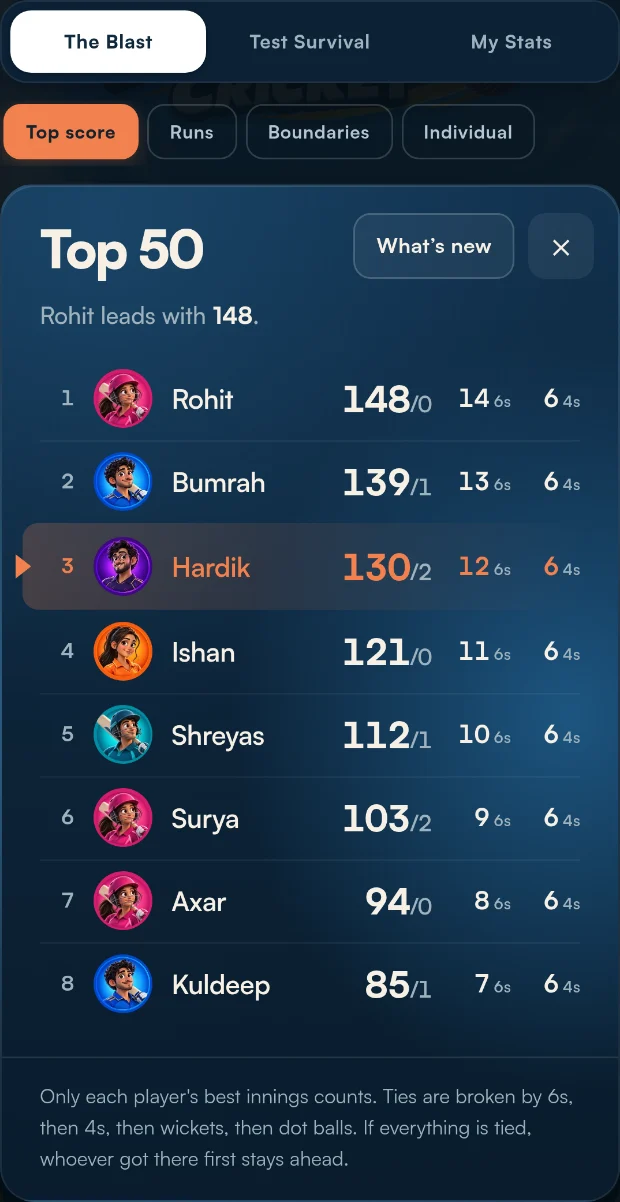
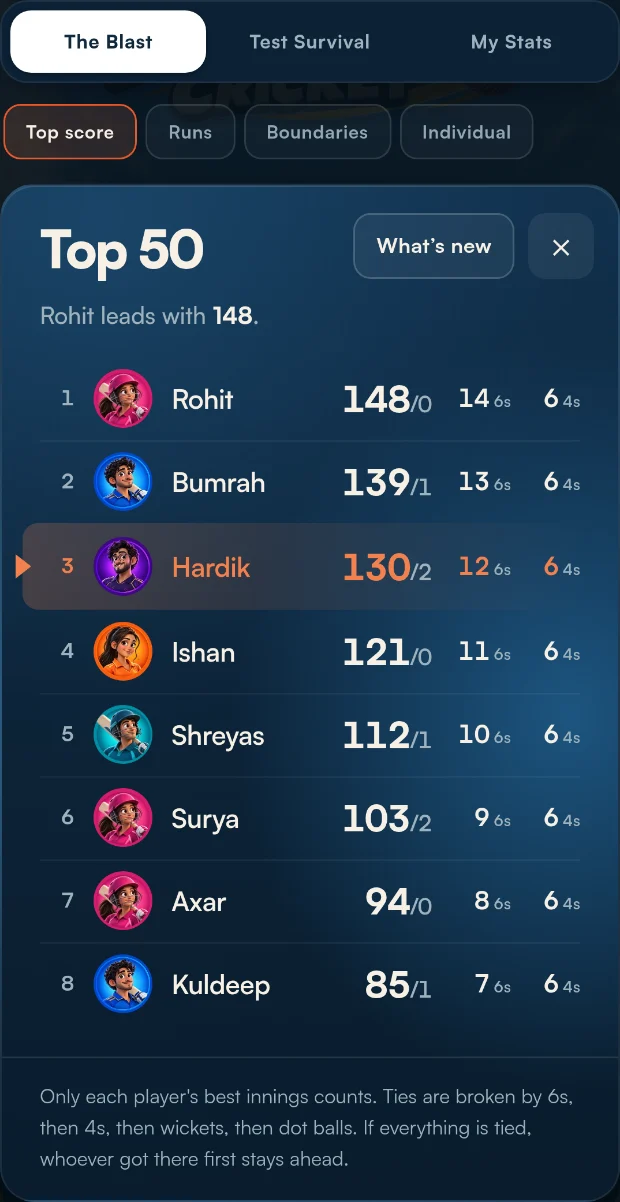
Stand the keys under the board, and quiet the ladder row
PLAY AGAIN and SHARE were sealed into the foot of the leaderboard card,
on a bar of their own with the fifty rows fading under them. That made a
way to play again look like part of the leaderboard, and left nobody
able to say where the board actually ended. They stand on the ground
beneath it now, the way the card's own keys stand under the card: the
board is a board, and these are what happens after it.

The markup follows the move. None of the three sheets renders them any
more — the screen puts them in the stack the sheet is standing in, which
is also why they only ever appeared on one of the three in the first
place.

And the ladder row wears what the card rail's pills wear. A solid orange
fill was the loudest thing on a screen whose job is fifty rows of other
people's scores; the row of ladders was shouting over the board it was
sorting. Lit is enough — the live one keeps the accent on its edge and a
wash of it behind the word, the rest are the same shape with the colour
taken out, and nothing changes size or weight between the two. The rail's
own pills come back the other way to meet them, squared to the same
corner as everything else on the screen rather than staying true pills.

Claude-Session: https://claude.ai/code/session_011FyhtfN3kyDt4tnJAqFJ8A

diff --git a/src/styles.css b/src/styles.css
@@ -1902,27 +1902,19 @@ body.start-screen .hud-top{display:none}
 .pause-card .story-key{margin-top:11px}
 .pause-card .start-hint{margin-top:10px;color:var(--quiet)}
 
-/* ── The board's own keys ──────────────────────────────────────────────── */
-/* Pinned to the foot of the sheet, with the fifty rows running under them.
-   Fifty rows is a long scroll, and a player who has just been put on the board
-   should not have to reach the bottom of it to leave. */
+/* ── What to do next ───────────────────────────────────────────────────── */
+/* Under the sheet, not inside it.
+   They used to be a bar sealed into the foot of the card, with the fifty rows
+   fading under them — which made a way to play again look like part of the
+   leaderboard, and left nobody able to say where the board actually ended. A
+   board is a board and these are what happens after it, so they stand on the
+   ground beneath it the way the card's keys stand under the card. */
 .board-actions{
   flex:none;
-  position:relative;
-  padding:12px 22px calc(14px + var(--pad-bottom) - 14px);
-  background:#0f2738;
-  border-top:1px solid var(--rule)
-}
-/* The rows do not end at the bar, they fade into it. */
-.board-actions::before{
-  content:'';
-  position:absolute;
-  left:0;
-  right:0;
-  bottom:100%;
-  height:22px;
-  background:linear-gradient(transparent,#0f2738);
-  pointer-events:none
+  width:100%;
+  /* Only whatever the home bar needs beyond the fourteen pixels the overlay
+     already puts under everything. On a phone without one this is nought. */
+  padding:0 0 calc(var(--pad-bottom) - 14px)
 }
 .board-actions .key-button{min-height:48px;font-size:16px}
 /* The pair sits side by side here exactly as it does on the innings card. It
@@ -1934,7 +1926,10 @@ body.start-screen .hud-top{display:none}
 /* The Test sheet's second key is the picker rather than the share pair, so it
    is the quiet twin of the one above it and wants the same full width. */
 .board-actions .ghost-link{display:block;width:100%;text-align:center}
-.board-sheet:has(.board-actions) .board-foot{display:none}
+/* With the keys under it the sheet does not also need its footnote: the two
+   together push the rows off a short screen, and the keys are what the player
+   is there for at that moment. */
+.board-stack:has(.board-actions) .board-foot{display:none}
 /* The board being down is a sentence, not an empty table. It reads on the sheet
    the rows would have filled, so the screen still has a shape. */
 .board-offline{
@@ -2133,7 +2128,7 @@ dialog .primary-button{margin-top:18px}
      card scrolls, the way out of the form does not move. */
   .card-claim .claim-key{position:sticky;bottom:0;z-index:1}
   .card-board .claim-key{margin:8px 13px 12px}
-  .board-actions{padding:9px 22px 11px}
+  .board-actions{padding:0 0 calc(var(--pad-bottom) - 14px)}
   .board-actions .key-button{min-height:42px;font-size:15px}
   /* Side by side once the card has to clear a landscape phone. The labels lose
      their tail rather than the buttons losing their tap target. */
@@ -3153,38 +3148,35 @@ body.private-window{overflow:hidden}
   scrollbar-width:none
 }
 .ladder-tabs::-webkit-scrollbar{display:none}
-/* Ghosts, until one is chosen.
-   They used to be filled panels with a border, which put five solid shapes in
-   a row and made the live one — also a solid shape — argue with the other
-   four for the same job. A stroke and a word carries the same tap target and
-   nothing else, so the one that is filled is unmistakably the one that is on.
-   The track behind them is the sheet, so there is nothing to fill against. */
+/* The same key, in two states, which is what the card rail's own pills settled
+   on and what this row now wears.
+   A solid orange fill was the loudest thing on a screen whose job is fifty
+   rows of other people's scores, and it made the row of ladders shout over the
+   board it was sorting. Lit is enough: the live one keeps the accent on its
+   edge and a wash of it behind the word, the rest are the same shape with the
+   colour taken out. Nothing in the row changes size or weight between the two,
+   so the eye reads one control rather than a chosen thing and four leftovers. */
 .ladder-tab{
   flex:0 0 auto;
   min-height:32px;
   padding:0 12px;
-  border:1px solid #ffffff2b;
-  /* The same family as the tabs above: a rounded rectangle, one step softer
-     again so the two rows read as one stack rather than two controls. */
+  border:1px solid #ffffff1f;
+  /* A rounded rectangle, not a pill: the same family as the tabs above it and
+     as the rail's own keys, one step softer again so the rows read as a stack. */
   border-radius:10px;
-  background:transparent;
+  background:#ffffff0a;
   font-family:var(--card);
   font-size:10.5px;
   font-weight:700;
   letter-spacing:.4px;
-  color:#b6c6d2;
+  color:#93a8b4;
   white-space:nowrap
 }
-.ladder-tab:hover:not(.is-on){color:#f4f8fa;border-color:#ffffff4d;background:#ffffff0a}
-/* The live one carries the sheet's accent rather than the white the row above
-   uses, so the two rows never read as two halves of one control. It is the
-   only filled shape in the row, which is the whole of how it is read. */
+.ladder-tab:hover:not(.is-on){color:#dae5ec;border-color:#ffffff3d;background:#ffffff14}
 .ladder-tab.is-on{
-  background:#f2814f;
-  border-color:#f2814f;
-  color:#17222b;
-  font-weight:800;
-  box-shadow:0 2px 10px #f2814f3d
+  border-color:var(--cta-orange);
+  background:#f2814f24;
+  color:#f7f0e5
 }
 
 
@@ -3339,7 +3331,9 @@ body.private-window{overflow:hidden}
   min-height:28px;
   padding:0 11px;
   border:1px solid #ffffff1f;
-  border-radius:999px;
+  /* Square-cornered to the same degree as every other key on this screen. It
+     was a true pill, which was the one shape the board had decided against. */
+  border-radius:10px;
   background:#ffffff0a;
   font-family:var(--card);
   font-size:11px;

diff --git a/src/ui/HUD.ts b/src/ui/HUD.ts
@@ -405,13 +405,17 @@ ${touch ? coverIntro(best, top) : panelIntro(best, top)}
    * there is nothing to be gained by keeping them around and patching them:
    * a fresh sheet is always the rows it was handed.
    */
-  board(view: BoardView) { this.sheet(boardMarkup(view), 'classic', 'best'); }
+  board(view: BoardView) {
+    this.sheet(boardMarkup(view), 'classic', 'best', view.actions ? this.actions('classic') : '');
+  }
 
   /**
    * The Test board. The same overlay and the same keys — only the rows and the
    * ladder they are ordered by differ, and those are the markup's business.
    */
-  surviveBoard(view: SurviveBoardView) { this.sheet(surviveBoardMarkup(view), 'survive', 'best'); }
+  surviveBoard(view: SurviveBoardView) {
+    this.sheet(surviveBoardMarkup(view), 'survive', 'best', view.actions ? this.actions('survive') : '');
+  }
 
   /**
    * A career board. The same overlay, the same keys and the same rows — what
@@ -419,18 +423,17 @@ ${touch ? coverIntro(best, top) : panelIntro(best, top)}
    * total is the board's own business rather than this method's.
    */
   careerBoard(view: CareerBoardView & { actions?: boolean }) {
-    const markup = careerBoardMarkup({
-      ...view,
-      actionsMarkup: view.actions ? this.actions(view.mode) : '',
-    });
-    this.sheet(markup, view.mode, view.board.key);
+    this.sheet(
+      careerBoardMarkup(view), view.mode, view.board.key,
+      view.actions ? this.actions(view.mode) : '',
+    );
   }
 
 
   /**
-   * The innings-end keys, pinned to the foot of a sheet that is standing in for
-   * the card. Each mode's own, because the Test card offers the mode picker
-   * where the Blast's offers the two ways of sending an innings out.
+   * The innings-end keys, under the sheet that is standing in for the card.
+   * Each mode's own, because the Test card offers the mode picker where the
+   * Blast's offers the way of sending an innings out.
    */
   private actions(mode: BoardTab) { return mode === 'survive' ? surviveActions() : actionsMarkup(); }
 
@@ -859,7 +862,7 @@ ${touch ? coverIntro(best, top) : panelIntro(best, top)}
    */
   private lastGame: BoardTab = 'classic';
 
-  private sheet(markup: string, tab: SheetTab, ladder: LadderTab) {
+  private sheet(markup: string, tab: SheetTab, ladder: LadderTab, actions = '') {
     const overlay = this.$('board-overlay');
     const surviving = tab === 'survive';
     // The card's tab has no ladders under it: a career is one thing and there
@@ -875,7 +878,11 @@ ${touch ? coverIntro(best, top) : panelIntro(best, top)}
     // one mode still has a career and still has a card, while a build that
     // plays both needs the row above to get between them.
     const tabs = `${boardTabsMarkup(tab)}${mine ? '' : ladderTabsMarkup(tab as BoardTab, ladder)}`;
-    overlay.innerHTML = `<div class="board-stack${mine ? ' is-mine' : ''}">${tabs}${markup}</div>`;
+    // The keys stand under the sheet rather than inside it. They are what to do
+    // next, which is not a fact about a leaderboard — sealed into its foot they
+    // read as part of the board, and a board with a PLAY AGAIN in it is a board
+    // nobody can tell where it ends.
+    overlay.innerHTML = `<div class="board-stack${mine ? ' is-mine' : ''}">${tabs}${markup}${actions}</div>`;
     for (const other of BOARD_TABS) {
       const key = document.getElementById(other.id);
       if (!key) continue;

diff --git a/src/ui/Leaderboard.ts b/src/ui/Leaderboard.ts
@@ -46,6 +46,15 @@ export interface BoardView {
    * opened straight after claiming a place, because at that moment the board is
    * the screen the player is on and playing again has to be reachable from it.
    */
+  /**
+   * Whether the innings-end keys stand under the sheet.
+   *
+   * Read by the screen rather than by this markup: the keys are not part of the
+   * board any more. They belong to the stack the board is standing in, under
+   * the card rather than sealed into its foot — a way to play again is not a
+   * fact about a leaderboard, and inside it that is exactly what it looked
+   * like.
+   */
   actions?: boolean;
 }
 
@@ -206,7 +215,7 @@ export function sheetKeys(): string {
 }
 
 export function boardMarkup(view: BoardView): string {
-  const { rows, youId = null, yours = null, state = 'ready', actions = false, atMs = Date.now() } = view;
+  const { rows, youId = null, yours = null, state = 'ready', atMs = Date.now() } = view;
   const edge = cutoff(rows);
   const yourPlace = rows.findIndex(row => row.playerId === youId);
   // An innings that is not a row yet is one of two things, and they are not the
@@ -235,7 +244,6 @@ export function boardMarkup(view: BoardView): string {
           : ''}
       </div>
       <p class="board-foot">Only each player's best innings counts. Ties are broken by 6s, then 4s, then wickets, then dot balls. If everything is tied, whoever got there first stays ahead.</p>
-      ${actions ? actionsMarkup() : ''}
     </div>`;
 }
 
@@ -268,7 +276,7 @@ export function rowMarkup(row: BoardRow, index: number, above: BoardRow | null, 
  */
 export function actionsMarkup(): string {
   return `
-      <div class="board-actions">
+      <div class="board-actions" role="group" aria-label="What now">
         <div class="card-keys">
           <button id="board-again" class="key-button">PLAY AGAIN</button>
           <button id="board-share" class="share-key" type="button">SHARE</button>

diff --git a/src/ui/SurviveBoard.ts b/src/ui/SurviveBoard.ts
@@ -164,7 +164,7 @@ export function surviveCutLabel(edge: SurviveRow): string {
 
 /** The whole screen, header to footer. */
 export function surviveBoardMarkup(view: SurviveBoardView): string {
-  const { rows, youId = null, yours = null, state = 'ready', actions = false, atMs = Date.now() } = view;
+  const { rows, youId = null, yours = null, state = 'ready', atMs = Date.now() } = view;
   const edge = surviveCutoff(rows);
   const yourPlace = rows.findIndex(row => row.playerId === youId);
   const waiting = yourPlace < 0 && yours ? surviveQualifies(yours, atMs, rows) : false;
@@ -197,7 +197,6 @@ export function surviveBoardMarkup(view: SurviveBoardView): string {
           : ''}
       </div>
       <p class="board-foot">A win beats a draw beats a loss. Wins are ranked on balls used &mdash; a chase is a race &mdash; draws on the runs made while surviving, and losses on how long the last man kept them out. Level innings are split on runs, then on who took the lesser battering, and if that ties too, whoever got there first stays above.</p>
-      ${actions ? surviveActions() : ''}
     </div>`;
 }
 
@@ -232,7 +231,7 @@ export function surviveRowMarkup(
 
 export function surviveActions(): string {
   return `
-      <div class="board-actions">
+      <div class="board-actions" role="group" aria-label="What now">
         <button id="board-again" class="key-button">PLAY AGAIN</button>
         <button id="board-modes" class="ghost-link">Mode selection</button>
       </div>`;

diff --git a/tests/survive-screen.test.ts b/tests/survive-screen.test.ts
@@ -5,7 +5,7 @@ import {
 } from '../src/game/survive-board';
 import {
   asSurvive, outcomeOf, surviveBest, surviveBoardMarkup, surviveCutLabel, surviveCutoff,
-  surviveLine, surviveOffer, survivePeekMarkup, survivePlaceOf, surviveRowMarkup,
+  surviveActions, surviveLine, surviveOffer, survivePeekMarkup, survivePlaceOf, surviveRowMarkup,
   surviveStandingPeek, splitOnBattering,
 } from '../src/ui/SurviveBoard';
 import {
@@ -145,11 +145,14 @@ describe('the sheet', () => {
     expect(drawn).toContain('not good enough yet');
   });
 
-  it('carries the innings-end keys only when it was opened as one', () => {
-    expect(surviveBoardMarkup({ rows: full, atMs: AT })).not.toContain('board-again');
-    const withKeys = surviveBoardMarkup({ rows: full, actions: true, atMs: AT });
-    expect(withKeys).toContain('board-again');
-    expect(withKeys).toContain('board-modes');
+  it('never carries the innings-end keys, however it was opened', () => {
+    // They stand under the sheet rather than inside it: what to do next is not
+    // a fact about a leaderboard, and the screen is what puts them there.
+    for (const actions of [false, true]) {
+      expect(surviveBoardMarkup({ rows: full, actions, atMs: AT })).not.toContain('board-again');
+    }
+    expect(surviveActions()).toContain('board-again');
+    expect(surviveActions()).toContain('board-modes');
   });
 
   it('answers where you are when one of the rows is yours', () => {

diff --git a/src/ui/CareerBoard.ts b/src/ui/CareerBoard.ts
@@ -111,8 +111,6 @@ export interface CareerBoardView {
   youId?: string | null;
   state?: 'ready' | 'loading' | 'offline';
   size?: number;
-  /** Whether the sheet carries the innings-end keys, as it does after claiming. */
-  actionsMarkup?: string;
 }
 
 /** A whole career board, header to footer. */
@@ -121,7 +119,7 @@ export function careerBoardMarkup(view: CareerBoardView): string {
   // name of the game being read, so an eyebrow repeating it was the sheet
   // saying the same thing twice — and at two lines on a narrow phone, saying it
   // twice in the space the title wanted.
-  const { board, rows, youId = null, state = 'ready', size = 50, actionsMarkup = '' } = view;
+  const { board, rows, youId = null, state = 'ready', size = 50 } = view;
   const place = rows.findIndex(row => row.playerId === youId);
   return `
     <div class="board-sheet" role="document">
@@ -142,7 +140,6 @@ export function careerBoardMarkup(view: CareerBoardView): string {
         ${state === 'ready' && !rows.length ? '<p class="board-cut">Nobody has a career here yet. Play an innings and it starts.</p>' : ''}
       </div>
       <p class="board-foot">Top ${size}, added up over every innings you have played on this device. ${escape(board.blurb)} Register a name to appear here.</p>
-      ${actionsMarkup}
     </div>`;
 }
 

diff --git a/tests/career-screen.test.ts b/tests/career-screen.test.ts
@@ -98,10 +98,11 @@ describe('a career board, drawn', () => {
     expect(markup).toContain('&lt;img src=x&gt;');
   });
 
-  it('carries the sheet\'s way out and the innings-end keys when it is given them', () => {
-    expect(careerBoardMarkup({ mode: 'classic', board, rows: [] })).toContain('id="board-close"');
-    expect(careerBoardMarkup({ mode: 'classic', board, rows: [], actionsMarkup: '<i id="board-again"></i>' }))
-      .toContain('id="board-again"');
+  it('carries the sheet\'s own way out, and none of the innings-end keys', () => {
+    const drawn = careerBoardMarkup({ mode: 'classic', board, rows: [] });
+    expect(drawn).toContain('id="board-close"');
+    // The keys belong to the stack the sheet stands in, not to the sheet.
+    expect(drawn).not.toContain('id="board-again"');
   });
 });
 
